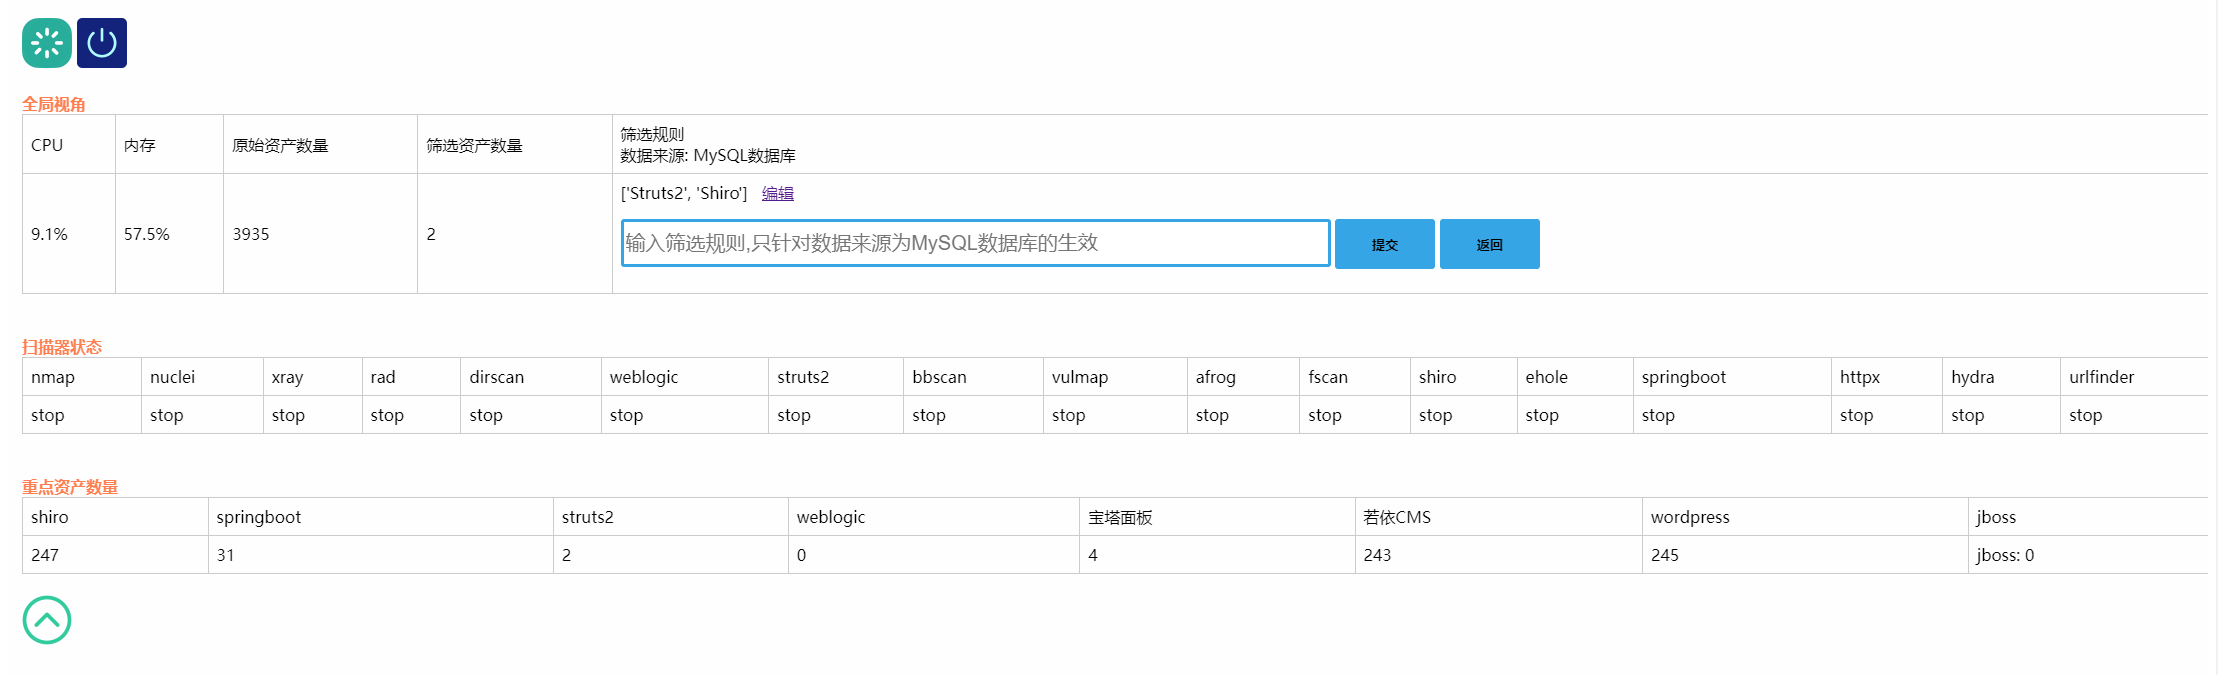
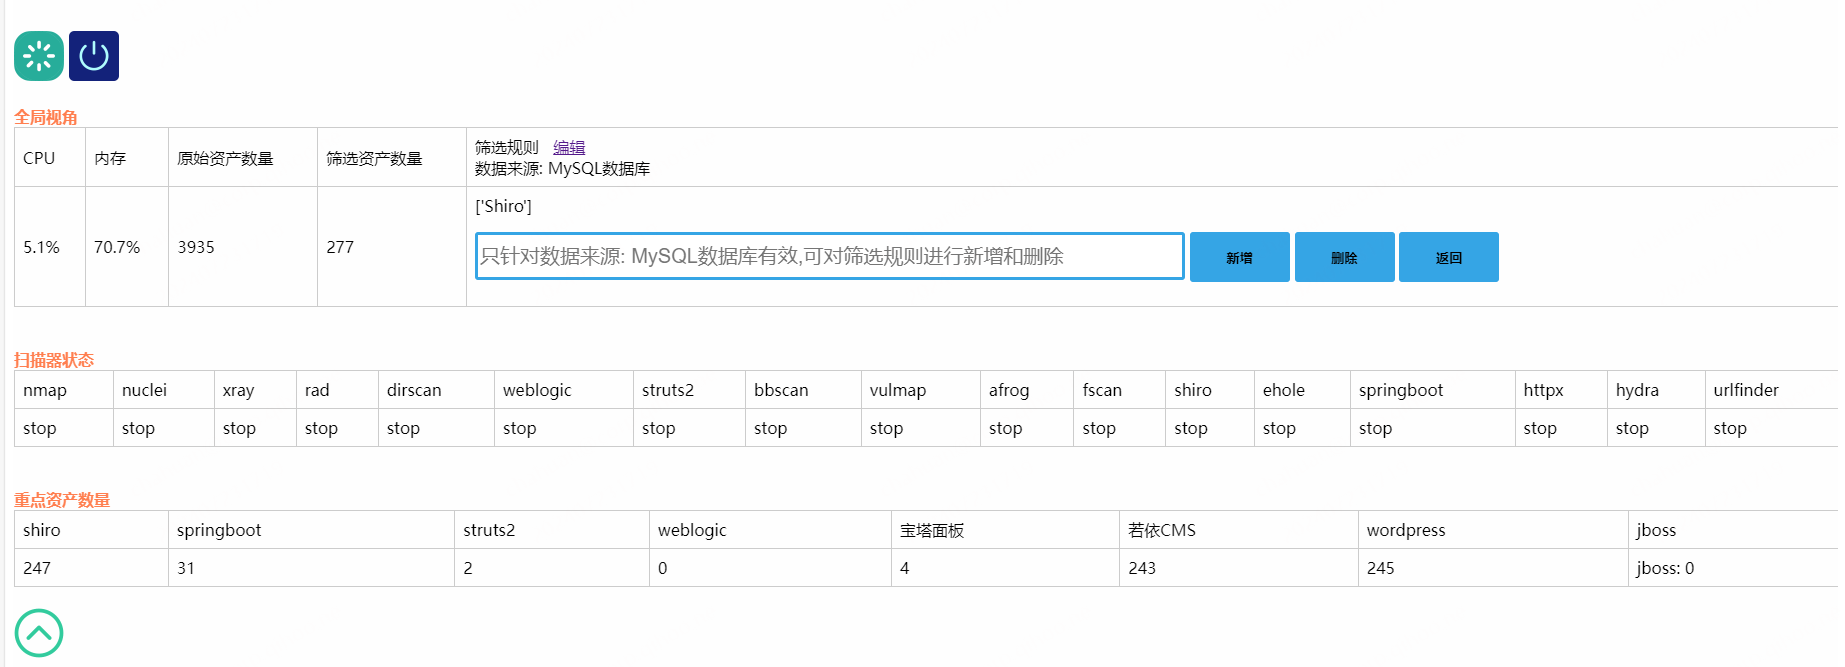
新增重点资产筛选规则删除功能

diff --git a/templates/index.html b/templates/index.html
@@ -55,9 +55,9 @@
 					<td>原始资产数量</td>
 					<td>筛选资产数量</td>
 					<td>
-						筛选规则<br>
+						筛选规则&nbsp;&nbsp;
+						<a href="###" onclick="shuaixuanrule()">编辑</a><br>
 						<span id="spp31"></span>
-
 					</td>
 				</tr>
 				<tr>
@@ -67,11 +67,11 @@
 					<td><span id="spp27"></span></td>
 
 					<td>
-						<span id="spp26"></span>&nbsp;&nbsp;
-						<a href="###" onclick="shuaixuanrule()">编辑</a>
+						<span id="spp26"></span>
 						<p style="display: none;" id="idp1">
-							<input type="text"placeholder="输入筛选规则,只针对数据来源为MySQL数据库的生效" id="rule_input_id1">
-							<input type="button" value="提交" onclick="add_rule_func()">
+							<input type="text"placeholder="只针对数据来源: MySQL数据库有效,可对筛选规则进行新增和删除" id="rule_input_id1">
+							<input type="button" value="新增" onclick="add_rule_func()">
+							<input type="button" value="删除" onclick="delete_rule_func()">
 							<input type="button" value="返回" onclick="fanhuishuaixuanrule()">
 						</p>
 					</td>
@@ -285,7 +285,7 @@
 	</div>
 	<h3>漏洞管理</h3>
 	<h5 onclick="vulnmanagerzhankaifunc()" id="vulnid2">展开</h3>
-		<h5 onclick="vulnmanagerzhediefunc()" id="vulnid3" style="display:none;">折叠</h5>
+		<h5 onclick="vulnmanagerzhediefunc()" id="vulnid3" style="display:none;">收起</h5>
 		<div style="display:none;" id="vulnid1">
 			<table border="1">
 				<tr>
@@ -516,7 +516,7 @@
 		</div>
 		<h3>资产管理</h3>
 		<h5 onclick="assetmanagerzhankaifunc()" id="assetid2">展开</h3>
-			<h5 onclick="assetmanagerzhediefunc()" id="assetid3" style="display:none;">折叠</h5>
+			<h5 onclick="assetmanagerzhediefunc()" id="assetid3" style="display:none;">收起</h5>
 			<div style="display:none;" id="assetid1">
 				<table border="1">
 					<tr>

diff --git a/static/js/common.js b/static/js/common.js
@@ -1463,7 +1463,7 @@ function fanhuishuaixuanrule() {
 }
 
 
-// 新增筛选规则
+// 新增重点资产筛选规则
 function add_rule_func() {
     var rule = document.getElementById("rule_input_id1").value;
     $.ajax({
@@ -1474,6 +1474,29 @@ function add_rule_func() {
         },
         success: function (info) {
             alert(info.result_rule)
+        },
+        
+        error: function (info) {
+            alert("内部出错")
+        },
+        complete: function () {
+
+        }
+    })
+}
+
+
+// 删除重点资产筛选规则
+function delete_rule_func() {
+    var rule = document.getElementById("rule_input_id1").value;
+    $.ajax({
+        url: '/delete_point_rule_interface/',
+        method: 'POST',
+        data: {
+            rule: rule
+        },
+        success: function (info) {
+            alert(info.delete_rule)
         },
         
         error: function (info) {

diff --git a/scan_main_web.py b/scan_main_web.py
@@ -409,9 +409,13 @@ def systemmanagement():
         # 资产规则
         if int(rule_options) == 1:
             key_asset_rule = str(finger_list)
+            if len(finger_list) == 0:
+                key_asset_rule = ['规则为空']
             key_asset_rule_origin = '数据来源: 配置文件'
         elif int(rule_options) == 2:
             key_asset_rule = select_rule()
+            if len(key_asset_rule) == 0:
+                key_asset_rule = ['规则为空']
             key_asset_rule_origin = '数据来源: MySQL数据库'
         else:
             key_asset_rule = ['参数只能为0/1']
@@ -1682,8 +1686,9 @@ def confirm_stop_service():
 @app.route("/add_point_rule_interface/",methods=['post'])
 def add_point_rule_interface():
     user = session.get('username')
-    rule = request.form['rule']
+
     if str(user) == main_username:
+        rule = request.form['rule']
         db= pymysql.connect(host=dict['ip'],user=dict['username'],  
         password=dict['password'],db=dict['dbname'],port=dict['portnum']) 
         cur = db.cursor()
@@ -1709,7 +1714,37 @@ def add_point_rule_interface():
         return render_template('login.html')
 
 
+# 重点资产识别根据筛选规则名称删除
+@app.route("/delete_point_rule_interface/",methods=['post'])
+def delete_point_rule_interface():
+    user = session.get('username')
 
+    if str(user) == main_username:
+        rule = request.form['rule']
+        db= pymysql.connect(host=dict['ip'],user=dict['username'],  
+        password=dict['password'],db=dict['dbname'],port=dict['portnum']) 
+        cur = db.cursor()
+        # 删除操作
+        sql="DELETE from rule_table WHERE rule = '%s' " %(rule)
+        cur.execute(sql)
+        db.commit()
+        db.rollback()
+
+        # 判断是否删除成功
+        sql1 = "select * from rule_table where rule = '%s' " %(rule)
+        cur.execute(sql1)
+        result = cur.fetchone()
+        if result == None:
+            result_rule = rule+" "+"删除成功"
+        
+        message_json = {
+            "delete_rule":result_rule
+        }
+
+        return jsonify(message_json)
+    
+    else:
+        return render_template('login.html')
 
 if __name__ == '__main__':  
     app.run(host="127.0.0.1",port=80)
